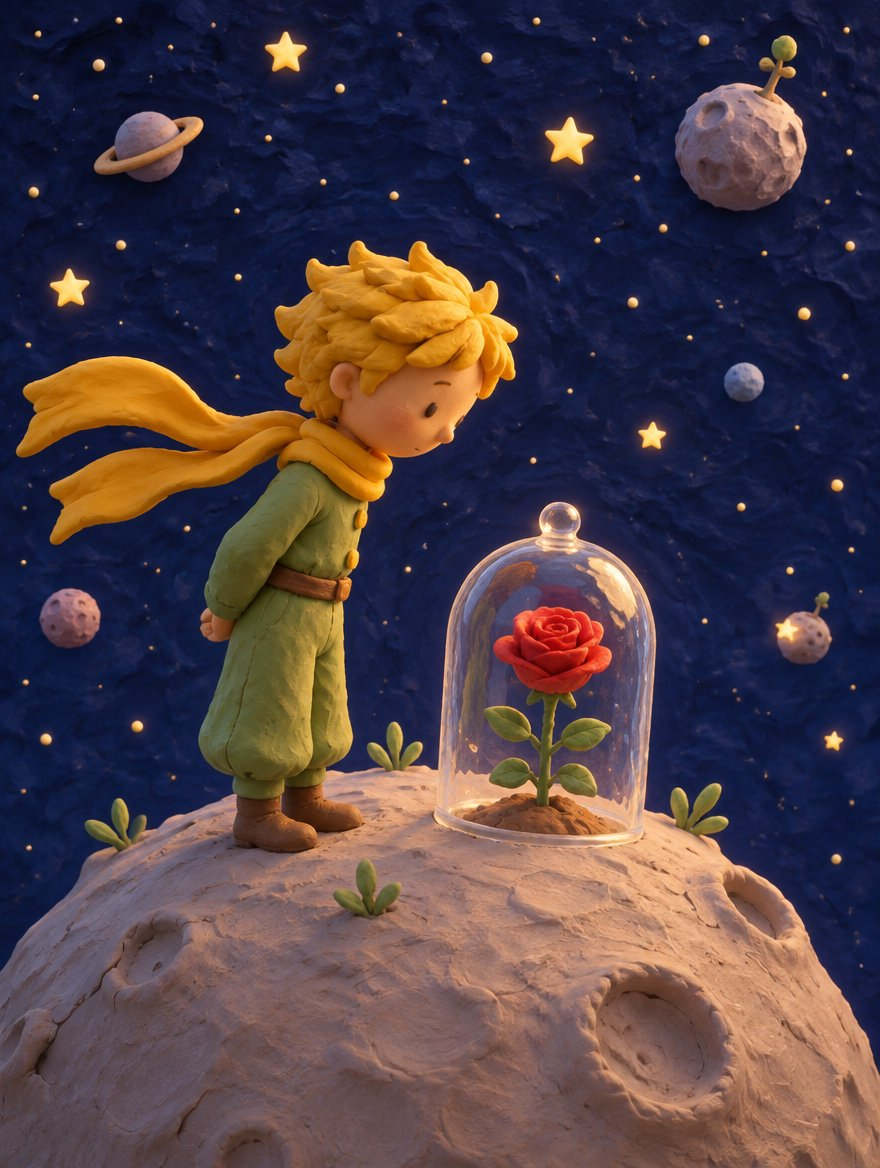
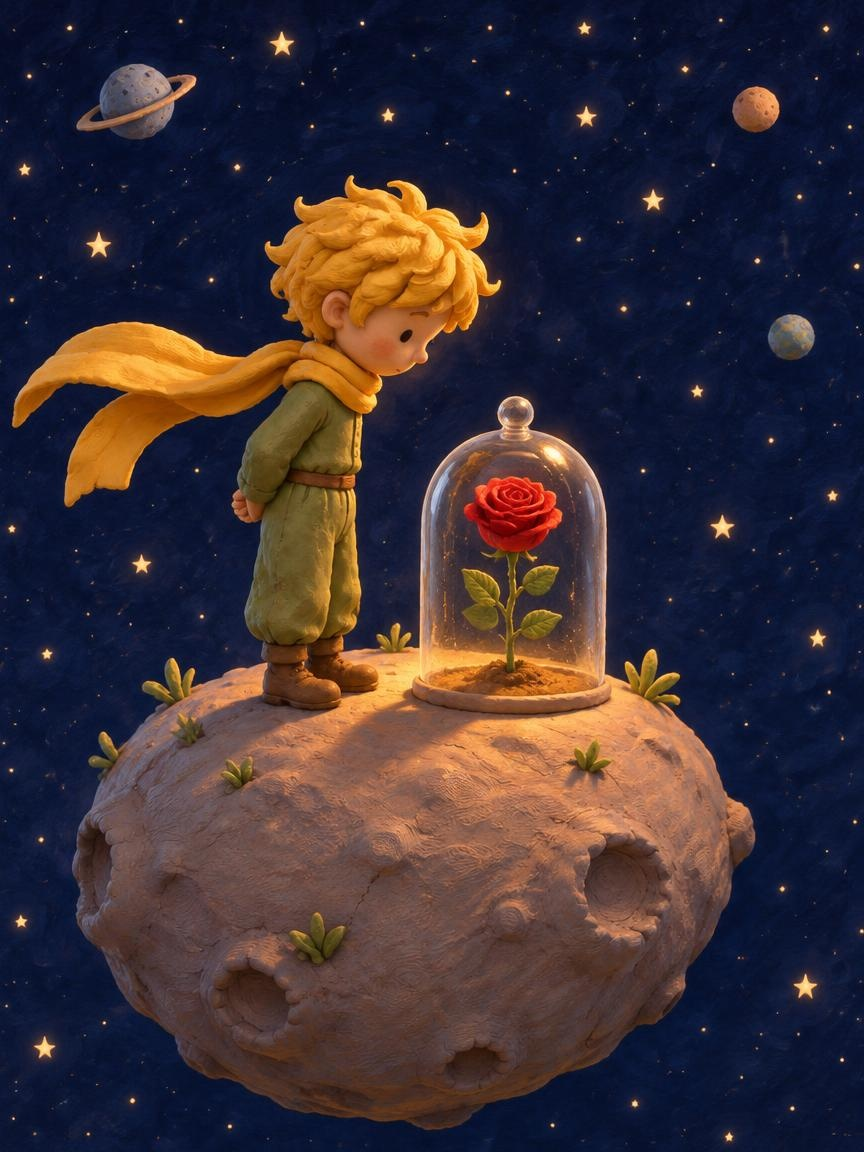
그림체 8장을 브루 GPT Image 2.6 Sunburst로 다시 뽑아 교체, 4장씩 두 쪽으로 크게

diff --git a/deck.js b/deck.js
@@ -105,13 +105,11 @@ slide('1단계 ③ 캐릭터 시트', '1단계 주인공', '', () => {
 });
 
 // ── 1단계 ③ 그림체
-slide('1단계 ④ 그림체 한 줄만 바꾸면', '1단계 주인공', '', () => {
-  const row = STYLES.map((s, i) => plain({ kind: 'img', src: `${A}s-gpt-${i + 1}.jpg`, name: s[0], by: '그림체 줄만 바꿈', chips: ['세로 3:4'], note: `그림체 줄: ${s[1]}`, prompt: P.style(i) })).join('');
-  return `${head('1단계 · 주인공 캐릭터', '장면 · 3:4', '[그림체] 한 줄', pbtn('그림체 줄만 바꾼 프롬프트 (예: 한국 민화)', P.style(5)))}<h2>그림체 <em>한 줄</em>만 바꾸면</h2><div class="body"><div class="styles">
-    <div class="labels">${STYLES.map(s => `<span>${s[0]}</span>`).join('')}</div><div class="row">${row}</div>
-    <div class="stylelines">${STYLES.map(s => `<span>${esc(s[1])}</span>`).join('')}</div>
-  </div>${take(T.style_take)}</div>`;
-});
+const styleCard = i => { const st = STYLES[i]; const n = reg({ kind: 'img', src: `${A}s-gpt-${i + 1}.jpg`, name: st[0], by: '브루 AI 이미지 · GPT Image 2.6 Sunburst · 그림체 줄만 바꿈', chips: ['일반 · Low · 3:4', '10 크레딧', '브루에서 직접 생성'], note: `그림체 줄: ${st[1]}`, prompt: P.style(i) });
+  return `<button class="card hero" data-i="${n}"><div class="media"><img src="${A}s-gpt-${i + 1}.jpg" alt="${st[0]} 그림체로 그린 어린 왕자"><span class="zoom">크게 보기</span></div><div class="txt"><div class="name">${st[0]}</div><div class="note">${esc(st[1])}</div></div></button>`; };
+const styleSlide = (tag, from) => slide(`1단계 ④ 그림체 한 줄만 바꾸면 (${tag})`, '1단계 주인공', '', () => `${head('1단계 · 주인공 캐릭터', '장면 · 일반 · Low · 3:4', '[그림체] 한 줄', pbtn('그림체 줄만 바꾼 프롬프트 (예: 한국 민화)', P.style(5)))}<h2>그림체 <em>한 줄</em>만 바꾸면 <small>${from + 1}~${from + 4} / 8</small></h2><div class="body"><div class="heroes n4s">${[0, 1, 2, 3].map(k => styleCard(from + k)).join('')}</div>${take(T.style_take)}</div>`);
+styleSlide('가', 0);
+styleSlide('나', 4);
 
 // ── 2단계 ① 영상 정하기
 slide('2단계 ① 만들고 싶은 영상 정하기', '2단계 콘티', '', () => {

diff --git a/index.html b/index.html
@@ -9,16 +9,16 @@
 <meta property="og:image" content="assets/final-poster.jpg">
 <link rel="preconnect" href="https://cdn.jsdelivr.net">
 <link href="https://cdn.jsdelivr.net/gh/orioncactus/pretendard@v1.3.9/dist/web/variable/pretendardvariable-dynamic-subset.min.css" rel="stylesheet">
-<link rel="stylesheet" href="style.css?v=15">
+<link rel="stylesheet" href="style.css?v=17">
 </head>
 <body>
 <div id="stage"></div>
 <div id="lightbox" hidden></div>
 <div id="toc" hidden></div>
-<script src="quoka-face.js?v=15"></script>
-<script src="quoka-kit.js?v=15"></script>
-<script src="data.js?v=15"></script>
-<script src="deck.js?v=15"></script>
-<script src="fx.js?v=15"></script>
+<script src="quoka-face.js?v=17"></script>
+<script src="quoka-kit.js?v=17"></script>
+<script src="data.js?v=17"></script>
+<script src="deck.js?v=17"></script>
+<script src="fx.js?v=17"></script>
 </body>
 </html>

diff --git a/style.css b/style.css
@@ -680,3 +680,7 @@ h2 small { font-size: 20px; font-weight: 600; color: var(--text-2); margin-left:
 .cuts22 .card.cut .name { font-size: 21px; line-height: 28px; font-weight: 700; }
 .cuts22 .card.cut .note { font-size: 15px; line-height: 23px; color: var(--text-2); }
 .cuts22 .card.cut .use { font-size: 14px; font-weight: 600; margin-top: auto; }
+
+/* v17: 그림체 4장씩 크게 */
+.heroes.n4s { grid-template-columns: repeat(4, 340px); justify-content: center; gap: 22px; }
+.heroes.n4s .card.hero .name { font-size: 18px; }
